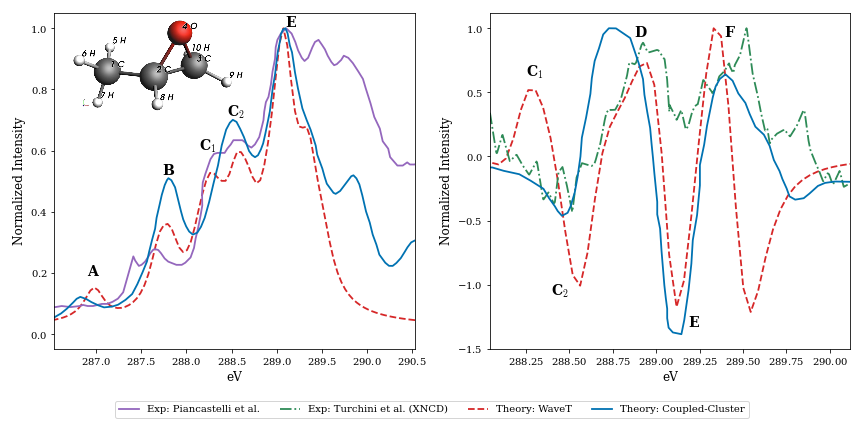
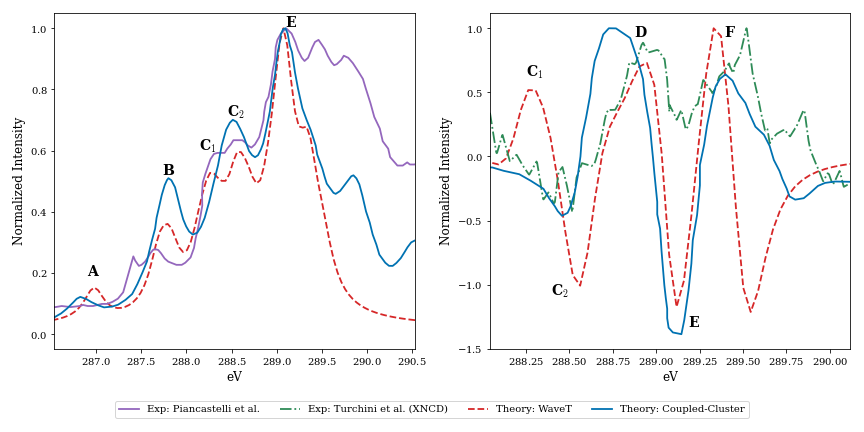
Update with Emanuele's suggestions

Changed region(s): [[0.0625, 0.0301, 0.2812, 0.2708]]

diff --git a/poster.tex b/poster.tex
@@ -42,7 +42,7 @@
   \begin{minipage}[c]{0.68\linewidth}
     \raggedright
     \color{titlefgcolor}%
-    {\bfseries\Huge\scshape\@title\par}%
+    {\bfseries\LARGE\scshape\@title\par}%
     \vspace*{0.8em}%
     {\Large\@author\par}%
     \vspace*{0.5em}%
@@ -70,7 +70,7 @@
 \begin{columns}
   \column{0.5}
   \block{Introduction}{
-    Chirality is central to biochemistry and drug design~\cite{Chergui2016}.
+    Chirality is central to chemistry and biochemistry and drug design~\cite{Chergui2016}.
     X-ray sources now extend chiroptical spectroscopy to core excitations, where resonant X-ray absorption (XAS) combines site specificity with strongly enhanced circular dichroism (XNCD)~\cite{Tanaka2005}.
     We address the need for theoretical assignments by propagating the time-dependent Schr\"odinger equation under an explicit pulse to compute XAS and XNCD in molecules with WaveT~\cite{Monti2023}, enabling interpretation of X-ray chiroptical spectra and ground- and valence excited-state pump--probe simulations~\cite{Sanchez2026}. 
   }
@@ -86,7 +86,7 @@
 
     \vspace{0.4em}
     \textbf{State-space expansion:}
-    $\ket{\Psi(t)}$ is expanded in TDDFT eigenstates of $\hat{H}_0$.
+    $\ket{\Psi(t)}$ is expanded in TDDFT \cite{AMS2025} eigenstates of $\hat{H}_0$.
     For ground-state (GS) spectra (core--valence separation, CVS):
     \begin{align}\label{eq:exp_core}
       \ket{\Psi(t)} = C_0(t)\ket{0} + \sum_{\lambda_c = 1}^{N_c}C_{\lambda_c}(t)\ket{\lambda_c}.
@@ -99,69 +99,69 @@
 
     \vspace{0.4em}
     \textbf{Spectra (linear response):}
-    With $\Delta\mu_q(t)=\mu_q(t)-\mu_q(0)$, $\Delta m_q(t)=m_q(t)-m_q(0)$ the time-dependent induced dipole moment and magnetic moment, along axis $q$, and $F_n^0(\omega)$ the Fourier transform of the field along axis $n$, the isotropic absorption and circular dichroism spectra are
+    With $\Delta\mu_q(t)=\mu_q(t)-\mu_q(0)$, $\Delta m_q(t)=m_q(t)-m_q(0)$ the time-dependent induced dipole moment and magnetic moment, along direction $q$, and $F_n^0(\omega)$ the Fourier transform of the field along direction $n$, the isotropic XAS and XNCD spectra are
     \begin{equation}
     \begin{gathered}
-      P^A(\omega) = \frac{1}{3}\sum_{n \in \{x,y,z\}} P^A_{nn}(\omega),
+      P^{\mathrm{XAS}}(\omega) = \frac{1}{3}\sum_{n \in \{x,y,z\}} P^{\mathrm{XAS}}_{nn}(\omega),
       \quad
-      P^{\mathrm{CD}}(\omega) = \frac{1}{3}\sum_{n \in \{x,y,z\}} P^{\mathrm{CD}}_{nn}(\omega), \\[0.4em]
-      P^A_{nq}(\omega) = \frac{1}{2\pi F_n^0(\omega)}\int_0^\infty \Delta\mu_q(t)\,e^{i(\omega + i\Gamma)t}\,\dd t,
-      \quad
-      P^{\mathrm{CD}}_{nq}(\omega) = \frac{i}{2\pi \omega F_n^0(\omega)}\int_0^\infty \Delta m_q(t)\,e^{i(\omega + i\Gamma)t}\,\dd t,
+      P^{\mathrm{XNCD}}(\omega) = \frac{1}{3}\sum_{n \in \{x,y,z\}} P^{\mathrm{XNCD}}_{nn}(\omega), \\
     \end{gathered}
     \end{equation}
+    \begin{align}
+      \begin{split}
+      P^{\mathrm{XAS}}_{nq}(\omega) &= \frac{1}{2\pi F_n^0(\omega)}\int_0^\infty \Delta\mu_q(t)\,e^{i(\omega + i\Gamma)t}\,\dd t,
+      \\
+      P^{\mathrm{XNCD}}_{nq}(\omega) &= \frac{i}{2\pi \omega F_n^0(\omega)}\int_0^\infty \Delta m_q(t)\,e^{i(\omega + i\Gamma)t}\,\dd t,
+      \end{split}
+    \end{align}
+
     where $\Gamma$ is a damping parameter (average excited-state lifetime).
 
     \vspace{0.4em}
     \textbf{Simulation pipeline:}
 
     \centering
-    \includegraphics[width=0.8\linewidth]{figures/pipeline_gs.png}
+    \includegraphics[width=\linewidth]{figures/pipeline_gs.png}
     \captionof{figure}{Pipeline for the computation of ground-state XAS and XNCD in molecules.}
     \label{fig:pipeline_gs}
     \centering
-    \includegraphics[width=0.8\linewidth]{figures/pipeline_es.png}
+    \includegraphics[width=\linewidth]{figures/pipeline_es.png}
     \captionof{figure}{Pipeline for the computation of excited-state XAS and XNCD in molecules.}
     \label{fig:pipeline_es}  
   }
 
   \block{Acknowledgements}{
-    We thank \dots for financial support.
+    Funding was provided by the European Research Council (ERC) through the CHIRAX project. Computational and institutional support from the University of Trieste and Elettra Sincrotrone Trieste is gratefully acknowledged.
   }
 
   \column{0.5}
 
   \block{Computational Details}{
-    \textbf{System and theory:}
-    (R)-methyloxirane; geometry from Andersen \textit{et al.}~\cite{Andersen2022} (reference for comparison).
-    Ground state TDDFT simulations: DFT with ADF/AMS, CAM-B3LYP.
+    \textbf{System and theory.}
+    (R)-methyloxirane (geometry from Andersen \textit{et al.}~\cite{Andersen2022}, comparison reference); ground-state TDDFT with ADF/AMS, CAM-B3LYP.
 
-    \vspace{0.3em}
-    \textbf{Basis sets (BS1--BS4):}
-    C K-edge and valence results were benchmarked to choose an efficient, converged setup:
-    BS1: C,O augmented TZP; H TZP.
-    BS2: C QZP+1 diffuse; O,H TZP.
-    BS3: C,O QZP+1 diffuse; H DZP.
-    BS4: C,O QZP+1 diffuse; H TZP.
+    \vspace{0.25em}
+    \textbf{Basis sets (BS1--BS4), benchmarked at C K-edge and valence:}
+    BS1: C,O augmented TZP, H TZP;
+    BS2: C QZP+1 diffuse, O/H TZP;
+    BS3: C,O QZP+1 diffuse, H DZP;
+    BS4: C,O QZP+1 diffuse, H TZP.
 
-    \vspace{0.3em}
-    \textbf{Core and valence states:}
-    Core TDDFT under CVS (60 states retained).
-    Valence TDDFT without orbital freezing (60 states retained).
-    Real-time dynamics at the C K-edge: 17 core states and 60 valence states; core manifold limited to excitations below the C $1s$ ionization threshold.
-
-    \vspace{0.3em}
-    \textbf{Propagation:}
-    97~fs trajectories with time step $\delta t = 0.12$~as, field intensity $I = 10^{4}$~W\,cm$^{-2}$, $\omega_c = 278$~eV (C K-edge XAS/XNCD), pulse FWHM 1~fs, $\tau = 1/\Gamma = 200$~a.u.
+    \vspace{0.25em}
+    \textbf{States and propagation.}
+    Core TDDFT (CVS, 60 states); valence TDDFT (no orbital freezing, 60 states).
+    C K-edge dynamics: 17 core + 60 valence states; core manifold below the C $1s$ ionization threshold.
+    97~fs trajectories, $\delta t = 0.12$~as, $I = 10^{4}$~W\,cm$^{-2}$, $\omega_c = 278$~eV, pulse FWHM 1~fs, $\tau = 1/\Gamma = 200$~a.u.
   }
 
   \block{Results and Discussion}{
     \noindent
-    \begin{minipage}[t]{0.65\linewidth}
+    \begin{minipage}[t]{0.71\linewidth}
+      \vspace*{0pt}%
       \centering
       \includegraphics[width=\linewidth]{figures/xas_xcd_gs_codiff_lg_exp_cc.png}
       \captionsetup{width=\linewidth}
-      \captionof{figure}{Experimental vs.\ computed ground-state XAS and XNCD for (R)-methyloxirane. Couple-Cluster data was obtained from Andersen \textit{et al.}~\cite{Andersen2022}, while experimental data was obtained from \cite{piancastelli2007,turchini2004}.}
+      \captionof{figure}{Experimental vs.\ computed ground-state XAS and XNCD for \textbf{C K-edge} of (R)-methyloxirane. Coupled-Cluster data was obtained from Andersen \textit{et al.}~\cite{Andersen2022}, while experimental data was obtained from \cite{piancastelli2007,turchini2004}. A rigid shift of 10.6~eV was applied to WaveT results to align with experiment.}
       \label{fig:xas_xcd_gs_codiff_lg_exp_cc}
 
       \vspace{0.6em}
@@ -171,37 +171,47 @@
     \end{minipage}%
     \hspace{0.03\linewidth}%
     \begin{minipage}[t]{0.25\linewidth}
+      \vspace*{8em}%
+      \centering
+      \raisebox{0.1em}[0pt][0pt]{%
+        \includegraphics[width=\linewidth]{figures/MethOx_Geom1_Coriani.png}%
+      }%
+      \captionsetup{width=\linewidth}
+      \captionof{figure}{Geometry of (R)-methyloxirane from Andersen \textit{et al.}~\cite{Andersen2022}.}
+      \label{fig:methoxirane_geom}
+
+      \vspace{0.6em}
       \centering
       \footnotesize
       \begin{tabular}{@{}lc@{}}
         \toprule
         Peak & Composition\\
         \midrule
-        $A$ & \begin{tabular}{@{}r@{\quad}l@{}}
+        A & \begin{tabular}{@{}r@{\quad}l@{}}
                 71\%: & 1S (1C) $\rightarrow$ LUMO \\
                 13\%: & 1S (1C) $\rightarrow$ LUMO \\
               \end{tabular} \\
-        $B$ & \begin{tabular}{@{}r@{\quad}l@{}}
+        B & \begin{tabular}{@{}r@{\quad}l@{}}
                 34\%: & 1S (1C) $\rightarrow$ LUMO+3 \\
                 30\%: & 1S (1C) $\rightarrow$ LUMO+1 \\
               \end{tabular} \\
-        $C_1$ & \begin{tabular}{@{}r@{\quad}l@{}}
+        C$_1$ & \begin{tabular}{@{}r@{\quad}l@{}}
                 26\%: & 1S (3C) $\rightarrow$ LUMO+3 \\
                 25\%: & 1S (3C) $\rightarrow$ LUMO \\
               \end{tabular} \\
-        $C_2$ & \begin{tabular}{@{}r@{\quad}l@{}}
+        C$_2$ & \begin{tabular}{@{}r@{\quad}l@{}}
                 35\%: & 1S (3C) $\rightarrow$ LUMO \\
                 19\%: & 1S (3C) $\rightarrow$ LUMO+1 \\
               \end{tabular} \\
-        $D$ & \begin{tabular}{@{}r@{\quad}l@{}}
+        D & \begin{tabular}{@{}r@{\quad}l@{}}
                 35\%: & 1S (3C) $\rightarrow$ LUMO \\
                 19\%: & 1S (3C) $\rightarrow$ LUMO+1 \\
               \end{tabular} \\
-        $E$ & \begin{tabular}{@{}r@{\quad}l@{}}
+        E & \begin{tabular}{@{}r@{\quad}l@{}}
                 25\%: & 1S (2C) $\rightarrow$ LUMO+14 \\
                 18\%: & 1S (2C) $\rightarrow$ LUMO+3 \\
               \end{tabular} \\
-        $F$ & \begin{tabular}{@{}r@{\quad}l@{}}
+        F & \begin{tabular}{@{}r@{\quad}l@{}}
                 26\%: & 1S (2C) $\rightarrow$ LUMO+3 \\
                 25\%: & 1S (2C) $\rightarrow$ LUMO+2 \\
               \end{tabular} \\
@@ -213,16 +223,17 @@
     \end{minipage}
 
     \centering
-    \includegraphics[width=0.57\linewidth]{figures/xcd_es_vcsame_lg_vg.png}
+    \includegraphics[width=0.65\linewidth]{figures/xcd_es_vcsame_lg_vg.png}
     \captionof{figure}{Basis set convergence of computed first-excited-state XNCD for carbon K-edge of (R)-methyloxirane. Core and valence calculations used to obtain the excited-state XNCD share the same basis set.}
     \label{fig:xcd_es_vcsame_lg_vg}
   }
 
   \block{Conclusions}{
     \begin{itemize}
-      \item WaveT is a general framework for molecular XAS and XNCD, including excited-state spectra and prospective solvent effects (perturbative matrix method or COSMO).
+      \item WaveT is a general framework for molecular XAS and XNCD, including ES spectra.
       \item For (R)-methyloxirane, WaveT ground-state XAS and XNCD reproduce experiment and agree with coupled-cluster benchmarks.
       \item Ground- and excited-state core transitions are assigned unambiguously.
+      \item Ongoing work for including solvent effects (PMM \cite{Amadei2009} and COSMO).
     \end{itemize}
   }
 